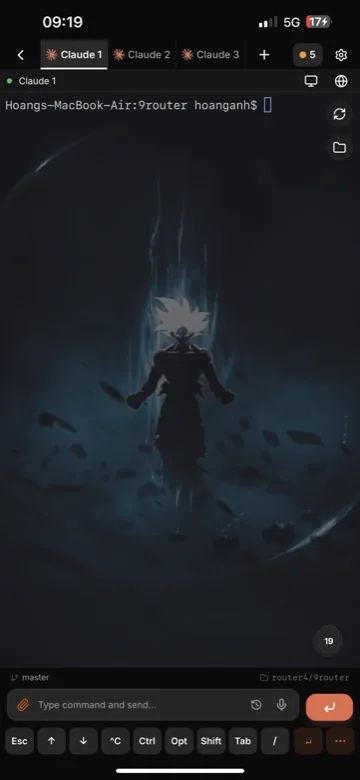
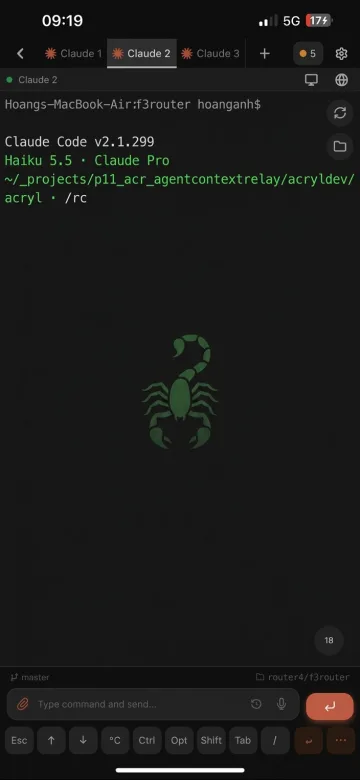
Replace screenshots with f3mote captures and fix their alt text
The README and landing page showed File Explorer and System Dashboard
captions for images that show Claude Code sessions. Update the desktop
and phone screenshots and describe what each one shows.

diff --git a/web/features/landing/components/HeroSection.js b/web/features/landing/components/HeroSection.js
@@ -39,8 +39,8 @@ const SUPERPOWERS = [
 
 const PHONES = [
   { src: "/screenshots/mobile-1.webp", alt: "Claude Code running in f3mote on a phone" },
-  { src: "/screenshots/mobile-2.webp", alt: "File explorer in f3mote on a phone" },
-  { src: "/screenshots/mobile-3.webp", alt: "System dashboard in f3mote on a phone" }
+  { src: "/screenshots/mobile-2.webp", alt: "Claude Code session in f3mote on a phone" },
+  { src: "/screenshots/mobile-3.webp", alt: "Idle terminal in f3mote on a phone" }
 ];
 
 export default function HeroSection() {
@@ -83,7 +83,7 @@ export default function HeroSection() {
             </div>
 
             <p className="font-mono text-xs sm:text-sm mb-3 max-w-xl mx-auto lg:mx-0" style={{ color: THEME.accent }}>
-              Codex CLI looks like 1995? Claude Code's TUI hurts? Forget them. Same agents, one UI you'll actually love.
+              Codex CLI looks like 1995? Claude Code&apos;s TUI hurts? Forget them. Same agents, one UI you&apos;ll actually love.
             </p>
 
             <p
@@ -135,7 +135,7 @@ export default function HeroSection() {
                 </div>
                 <img
                   src="/screenshots/desktop-ide.webp"
-                  alt="f3mote desktop workspace: terminal, editor and AI agent panes side by side"
+                  alt="f3mote desktop workspace: three Claude Code terminal panes side by side"
                   className="w-full block"
                 />
               </div>

diff --git a/host/README.md b/host/README.md
@@ -1,11 +1,11 @@
 <div align="center">
-  <img src="https://raw.githubusercontent.com/f3tools/f3mote/main/web/public/screenshots/desktop-ide.webp" alt="f3mote desktop workspace: terminal, editor and AI agent panes side by side" width="880"/>
+  <img src="https://raw.githubusercontent.com/f3tools/f3mote/main/web/public/screenshots/desktop-ide.webp" alt="f3mote desktop workspace: three Claude Code terminal panes side by side" width="880"/>
 
   <table align="center">
     <tr>
       <td><img src="https://raw.githubusercontent.com/f3tools/f3mote/main/web/public/screenshots/mobile-1.webp" width="230" alt="Claude Code on Phone"/></td>
-      <td><img src="https://raw.githubusercontent.com/f3tools/f3mote/main/web/public/screenshots/mobile-2.webp" width="230" alt="File Explorer on Phone"/></td>
-      <td><img src="https://raw.githubusercontent.com/f3tools/f3mote/main/web/public/screenshots/mobile-3.webp" width="230" alt="System Dashboard on Phone"/></td>
+      <td><img src="https://raw.githubusercontent.com/f3tools/f3mote/main/web/public/screenshots/mobile-2.webp" width="230" alt="Claude Code session on Phone"/></td>
+      <td><img src="https://raw.githubusercontent.com/f3tools/f3mote/main/web/public/screenshots/mobile-3.webp" width="230" alt="Idle terminal on Phone"/></td>
     </tr>
   </table>
 

diff --git a/README.md b/README.md
@@ -6,13 +6,13 @@ Your entire dev workstation in your pocket. A remote IDE, 60fps desktop stream, 
 > **Codex CLI looks like 1995? Claude Code's TUI hurts? Forget them.** Same agents, one UI you'll actually love.
 
 <div align="center">
-  <img src="./web/public/screenshots/desktop-ide.webp" alt="f3mote desktop workspace: terminal, editor and AI agent panes side by side" width="880"/>
+  <img src="./web/public/screenshots/desktop-ide.webp" alt="f3mote desktop workspace: three Claude Code terminal panes side by side" width="880"/>
 
   <table align="center">
     <tr>
       <td><img src="./web/public/screenshots/mobile-1.webp" width="230" alt="Claude Code on Phone"/></td>
-      <td><img src="./web/public/screenshots/mobile-2.webp" width="230" alt="File Explorer on Phone"/></td>
-      <td><img src="./web/public/screenshots/mobile-3.webp" width="230" alt="System Dashboard on Phone"/></td>
+      <td><img src="./web/public/screenshots/mobile-2.webp" width="230" alt="Claude Code session on Phone"/></td>
+      <td><img src="./web/public/screenshots/mobile-3.webp" width="230" alt="Idle terminal on Phone"/></td>
     </tr>
   </table>
 </div>
